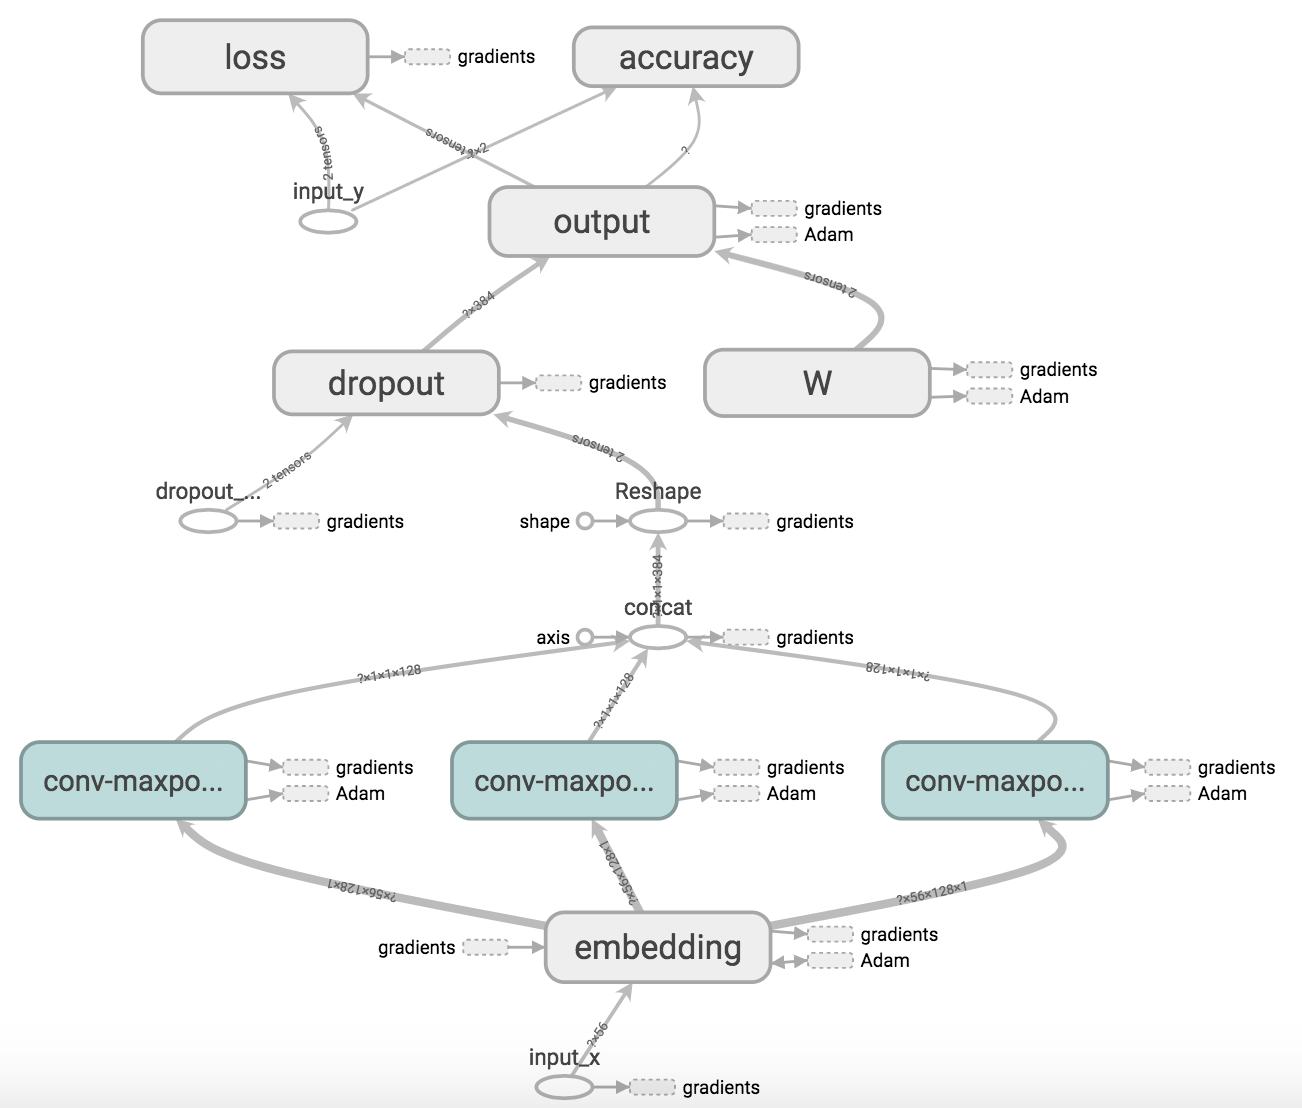
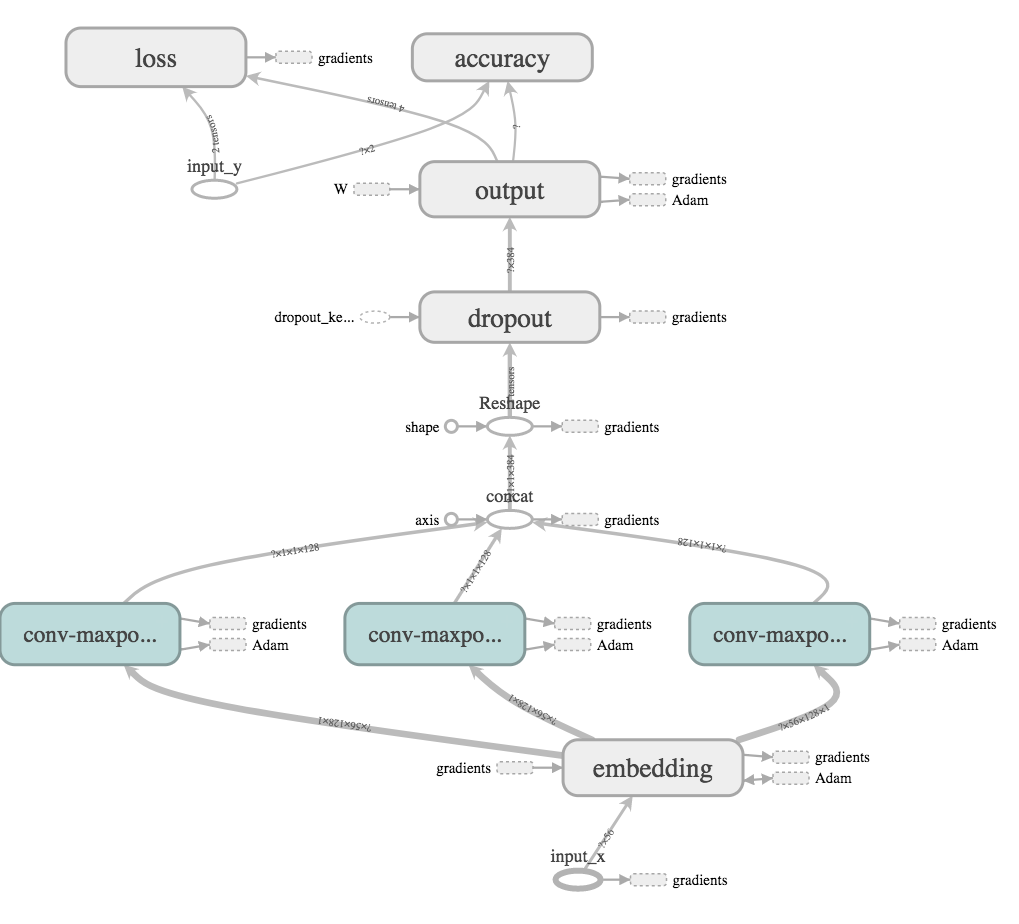
Updated Docs

diff --git a/README.md b/README.md
@@ -33,7 +33,7 @@ The model consists of an embedding layer followed by multiple parallel convoluti
 
 #### Computational Graph
 
-![](graphs/v1_Graph.png)
+![](graphs/v1_Graph_Compressed.png)
 
 #### Hyperparameters
 
@@ -181,7 +181,7 @@ This model has a lot of trainable parameters and is probably not practical but h
 
 > The code for the model can be found in `text_gcnn.py`.
 
-Model v4 is a graph convolutional neural network based on the [paper](https://arxiv.org/abs/1606.09375) & [code](https://github.com/mdeff/cnn_graph) by Michael Defferrard, Xavier Bresson & Pierre Vandergheynst. The graph is a 16-NN graph constructed from the pre-trained word embeddings of the 5,000 most frequent words in the vocabulary and each sentence (i.e. pattern) is represented using the bag-of-words model (of the condensed vocabulary of 5,000 words), normalized across words.
+Model v4 is a graph convolutional neural network based on the [paper](https://arxiv.org/abs/1606.09375) & [code](https://github.com/mdeff/cnn_graph) by Michael Defferrard, Xavier Bresson & Pierre Vandergheynst. The graph is a 16-NN graph constructed from the pre-trained word embeddings of the 5,000 most frequent words in the vocabulary and each sentence (i.e. pattern) is represented using the bag-of-words model (`|V| = 5,000`), normalized across words.
 
 ### Model Performance
 
